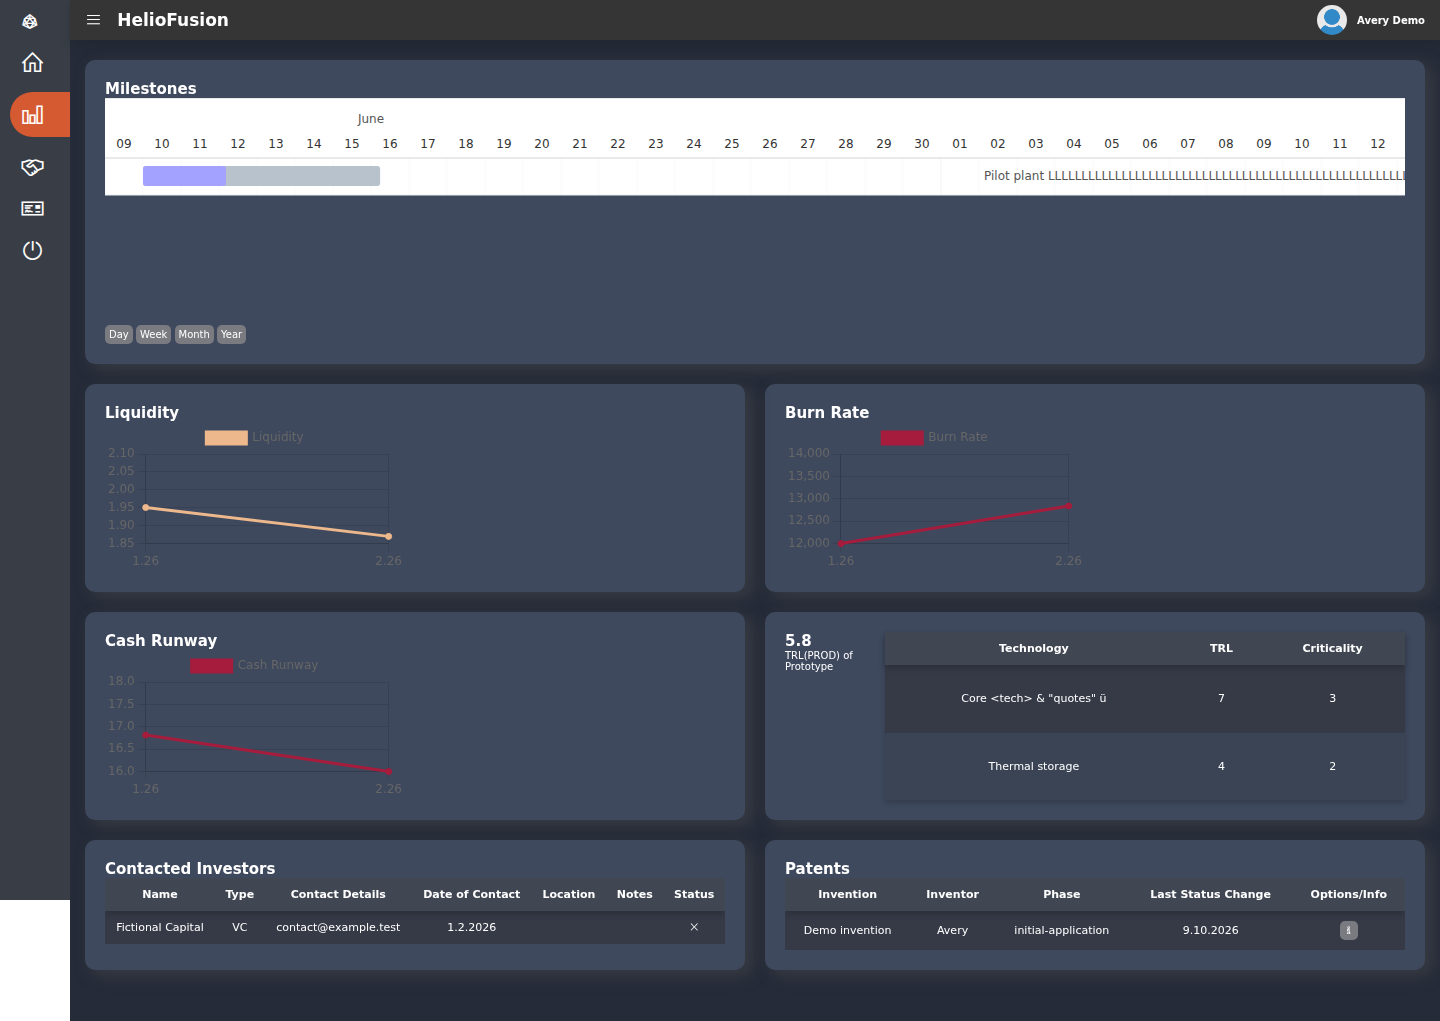
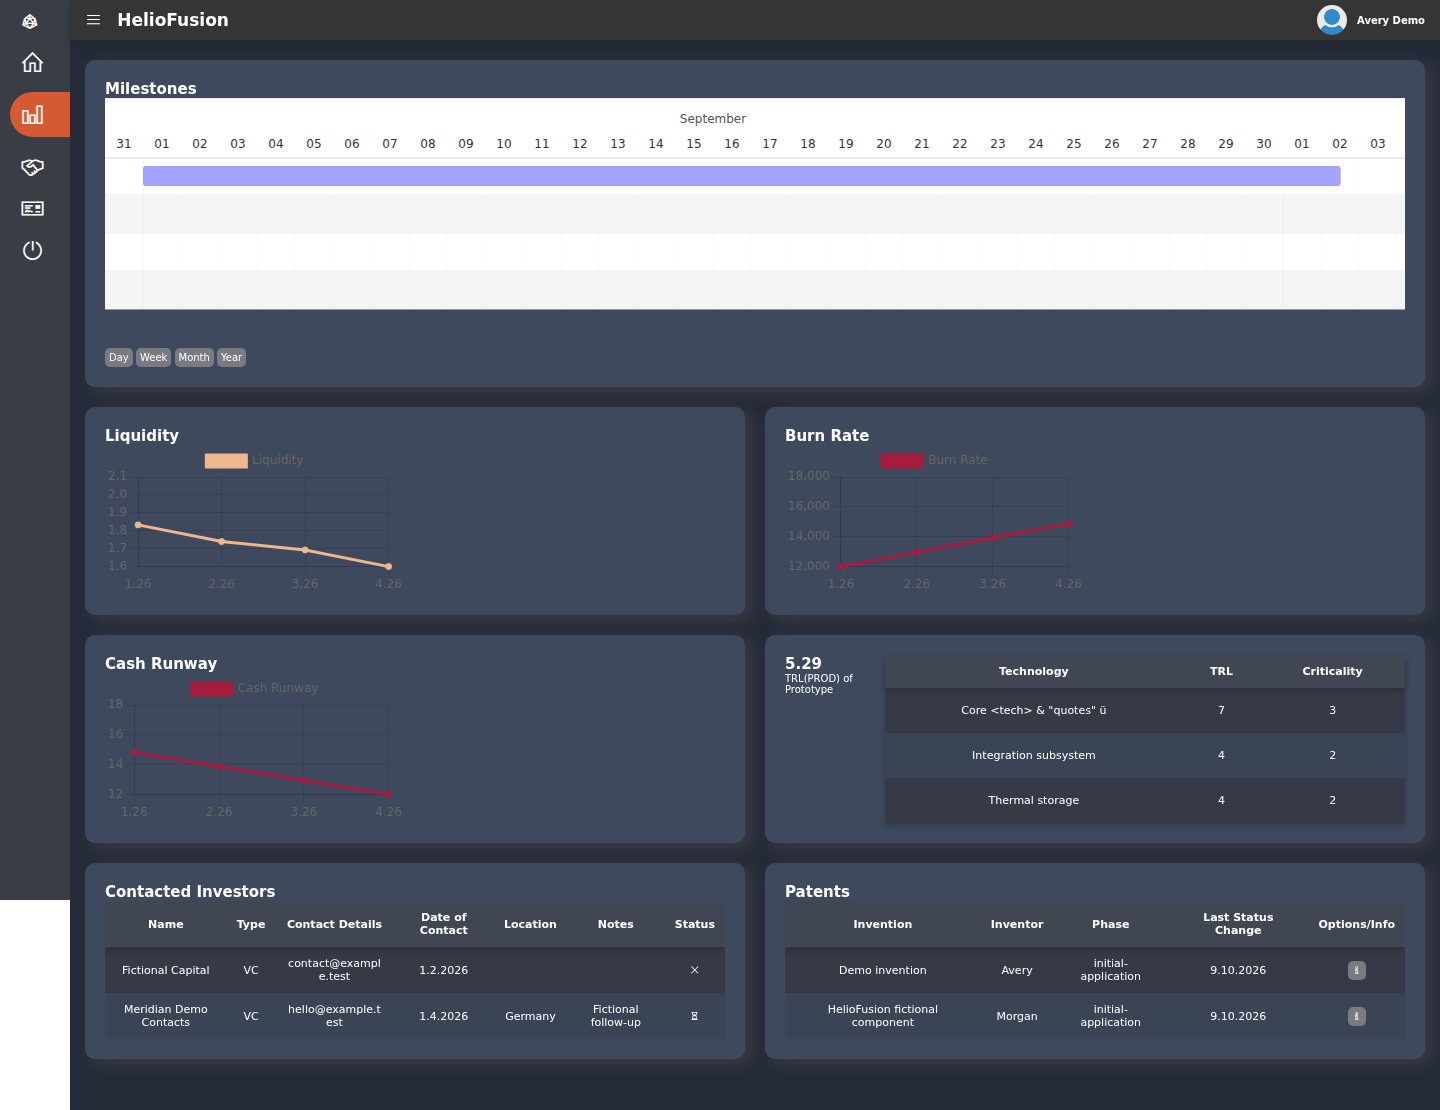
feat(demo): add protected role picker and expanded fictional fixtures

Changed region(s): [[0.0, 0.0, 1.0, 0.4554], [0.0, 0.4554, 1.0, 0.9716]]

diff --git a/dashboard/src/routes/index.ts b/dashboard/src/routes/index.ts
@@ -1,12 +1,15 @@
 import express, { Router, Response, Request } from "express";
 import { checkAuthenticated } from "../middleware/check-auth";
 import passport from "passport";
+import { randomBytes } from "crypto";
 
 import {
   Role,
+  User,
   UserRole,
   getUserRole,
   getFirstUserLoginByEmail,
+  getLoginUserByEmail,
 } from "../models/users";
 import {
   getFirstStartupLoginById,
@@ -18,7 +21,69 @@ import { getTrlAvailable } from "../models/trl";
 const router: Router = express.Router();
 
 router.get("/", checkAuthenticated, (req, res) => {
-  res.render("index", { layout: "../views/layouts/login.ejs" });
+  const localDemo = Boolean(req.app.locals.demoAccounts);
+  if (localDemo) req.session.demoLoginToken = randomBytes(32).toString("hex");
+  res.render("index", {
+    layout: "../views/layouts/login.ejs",
+    localDemo,
+    demoLoginToken: localDemo ? req.session.demoLoginToken : undefined,
+  });
+});
+
+// Only the isolated launcher supplies this server-owned fixture map.
+router.post("/demo/login", async (req, res, next) => {
+  const accounts = req.app.locals.demoAccounts;
+  if (!accounts) return res.sendStatus(404);
+  const origin = req.get("Origin");
+  if (
+    (origin && origin !== `${req.protocol}://${req.get("host")}`) ||
+    typeof req.body.token !== "string" ||
+    !req.session.demoLoginToken ||
+    req.body.token !== req.session.demoLoginToken
+  )
+    return res.status(403).send("Reload the role picker and try again.");
+  const role = req.body.role;
+  if (
+    typeof role !== "string" ||
+    !Object.prototype.hasOwnProperty.call(accounts, role) ||
+    Object.keys(req.body).some((key) => key !== "role" && key !== "token")
+  )
+    return res.sendStatus(400);
+  try {
+    const fixture = await getLoginUserByEmail(accounts[role]);
+    if (fixture.role !== role) return res.sendStatus(400);
+    const user: User = {
+      id: fixture.id,
+      firstName: fixture.firstName,
+      lastName: fixture.lastName,
+      email: fixture.email,
+      role: fixture.role,
+      created_at: fixture.created_at,
+      updated_at: fixture.updated_at,
+      startup: fixture.startup,
+      fund: fixture.fund,
+    };
+    delete req.session.demoLoginToken;
+    req.logIn(user, async (error) => {
+      if (error) return next(error);
+      try {
+        const userRole = await getUserRole(user.email);
+        if (userRole.role === Role.Admin) return loginAdmin(userRole, res);
+        if (userRole.role === Role.Startup)
+          return await loginOrOnboardStartupUser(
+            userRole,
+            user.email,
+            res,
+            req
+          );
+        return loginFund(userRole, req, res);
+      } catch (error) {
+        next(error);
+      }
+    });
+  } catch (error) {
+    next(error);
+  }
 });
 
 router.post(

diff --git a/dashboard/src/util/types/express/index.d.ts b/dashboard/src/util/types/express/index.d.ts
@@ -19,6 +19,7 @@ declare global {
 
 declare module "express-session" {
   export interface Session {
+    demoLoginToken?: string;
     startupId: string;
     fundId: string;
     startupTable: Startup[];

diff --git a/dashboard/public/css/login.css b/dashboard/public/css/login.css
@@ -3,6 +3,11 @@ body {
   font-size: 26px;
 }
 
+.wrapper.demo-login {
+  box-sizing: border-box;
+  max-width: 100%;
+}
+
 .wrapper {
   width: 900px;
   margin: 0 auto;

diff --git a/dashboard/qa/demo-fixtures.md b/dashboard/qa/demo-fixtures.md
@@ -1,0 +1,47 @@
+# Isolated demo and fixture contract
+
+Run `cd dashboard && npm ci && node local-demo.cjs`. The launcher binds 127.0.0.1:3307, uses pg-mem, rejects legacy database/config modules and outbound sockets, and resets all state on every restart. Never use legacy npm start or the old README remote credentials for this demo.
+
+The login screen has four roles and one submit button. Defaults are admin@example.test, startup@example.test, fund@example.test and stakeholder@example.test. Only local-demo.cjs installs app.locals.demoAccounts. NODE_ENV, environment flags, query strings and request payloads cannot enable the bypass in the normal application. POST /demo/login accepts only an allowlisted role and session-bound hidden token, rejects cross-origin submissions, then uses the normal Passport session and existing destination/ownership guards. Reload rotates the token; successful login consumes it. Production credential UI and POST /login remain unchanged. Logout destroys the authenticated session.
+
+All accounts and organizations below are fictional. Tests use POST /login with the fixture-only password local-demo-only for additional accounts. These are not options in the picker and are not new application roles.
+
+Stable base startup identities, with DEMO_EXTRA_STARTUPS unset:
+
+| ID/export | Name | Account | Sector / stage |
+| --- | --- | --- | --- |
+| 1/helio | HelioFusion | startup@example.test | Energy / Seed |
+| 2/quantum | Quantum Forge | startup2@example.test | Computing / Seed |
+| 3/orbit | Orbit Labs | startup3@example.test | Space / Pre-seed |
+| 4/fresh | New Sprout | onboarding@example.test | new, incomplete |
+| 5/tide | Tidal Health | startup4@example.test | Health / Growth |
+| 6/cedar | Cedar Analytics | startup5@example.test | Software / Series B |
+| 7/empty | Empty Meadow | emptyonboarding@example.test | Agriculture / Pre-seed, empty data |
+
+New Sprout retains the legacy first-login fixture. Empty Meadow has no questionnaire, cap table, TRL, milestones or metrics. The five populated startups each have four milestones, with 100%, 50%, 65% and 0% progress and dates from September 2025 through April 2027; four financial history points; two TRL technologies, two patents, two investor contacts, founder accounts and a three-owner cap table. founder<ID>@example.test is a second founder on each populated startup with its own track record. IDs of original first TRL/milestone/contact/patent records are preserved. Read exports rather than hardcoding added IDs if the large-fixture switch is used.
+
+| Investor ID | Organization | Account | Portfolio |
+| --- | --- | --- | --- |
+| 1 | Aurora Ventures | fund@example.test | HelioFusion, Quantum Forge, Tidal Health |
+| 2 | Pioneer Incubator | stakeholder@example.test | Quantum Forge, Tidal Health |
+| 3 | Meridian Capital | fund2@example.test | Tidal Health, Cedar Analytics |
+| 4 | Juniper Incubator | stakeholder2@example.test | Cedar Analytics, Orbit Labs |
+| 5 | Empty Horizon Fund | emptyfund@example.test | empty |
+
+ERP task t_9ce2d6e9 should reuse dashboard/tests/local-db.cjs and its exported ids/demoAccounts, not create competing seed definitions. The optional DEMO_EXTRA_STARTUPS switch is for the existing stress test, not the isolated launcher, which strips inherited environment settings. No ERP, scraper or launch.json behavior changed here.
+
+# Executed verification
+
+- `node --openssl-legacy-provider --test tests/*.test.cjs`: 21/21 passed after the CSRF correction, including role rejection, production-mode behavior, ownership, expanded portfolios/milestone save/readback and 153-row large fixture (150 ms recorded smoke load). Missing, foreign, stale, malformed, replayed and cross-origin tokens are rejected.
+- `npx tsc --noEmit` and `npm run lint`: passed with no lint warnings after explicit safe user-field projection.
+- `CHROMIUM_PATH=/home/boh/.cache/ms-playwright/chromium-1243/chrome-linux64/chrome node tests/e2e.cjs`: 19 steps, 16 screenshots, zero issue groups. Gantt drags, TRL/milestone CRUD, contact status, upload, fund details, admin CRUD, mobile keyboard, four concurrent role sessions all passed. Multi-row assertions now select the edited row rather than assuming it stays first after date sorting; Gantt drag scrolls its target into view.
+- Same CHROMIUM_PATH with `node tests/remaining-e2e.cjs`: full onboarding, admin fund/stakeholder CRUD and patent lifecycle passed. Extra onboarding accounts authenticate through the existing fixture credential endpoint; ordinary roles use the dropdown.
+- Same CHROMIUM_PATH with `node tests/role-picker-e2e.cjs`: four roles at 1440x1000 and 390x844, eight checks, no console/page errors. Keyboard submission, destinations, refresh, expanded Gantt/portfolio counts, logout and rejected identity overrides passed. Actual screenshots are in qa/role-picker; existing suites refreshed qa/after and qa/remaining.
+
+Visually inspected desktop startup charts/Gantt and mobile login. The picker fits the narrow viewport after a demo-only wrapper max-width correction. Existing chart contrast, day-mode horizontal Gantt extent and dense mobile tables are preserved for modernization task t_fbbf867c, not redesigned here. Playwright's browser installer does not support this host OS and a fallback download timed out; tests actually ran with the existing Chromium executable above.
+
+# Review handoff
+
+Changes are isolated on feat/demo-role-picker at published base f90709d303ab3db0ef65ef0e761f8356c6fee79d. No PR/shared branch write or merge occurred. Ben supplied the repository-local commit identity. This branch is the selected combined picker/expanded-fixture implementation: do not also layer the overlapping t_cce255ef picker onto it. Its session-bound token defense was incorporated here with an additional Origin check and explicit submitted-field allowlist. The sibling scraper/tsconfig.json build-root fix is separate and must still be retained by integration; this checkout does not contain that fix.
+
+Follow-up read-only review inspected the corrected route, template, session declaration, launcher/server and tests, independently ran all three picker tests, and found no remaining must-fix defects in the correction. Earlier R1 login-CSRF is resolved. Parent reran all 21 regression tests, typecheck/lint and all three clean-state browser suites after the change; results above reflect that run. Visually inspected actual mobile picker and startup desktop screenshots again: picker controls fit, existing chart contrast/day-mode extent limitations remain for modernization. Publisher owns coordinated PR #1 integration; modernization must preserve this fixture contract. No live database, ERP, sandbox service restart, new PR or merge.
